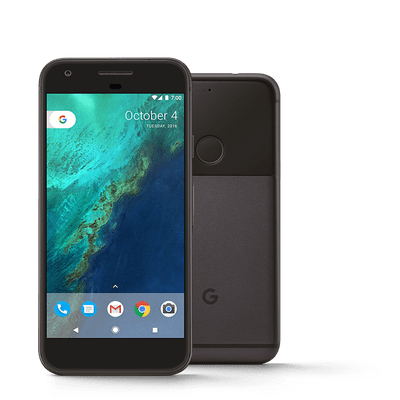
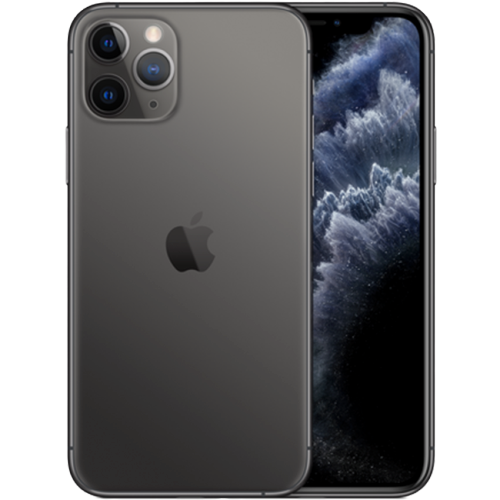
updating new phone

diff --git a/src/data.js b/src/data.js
@@ -1,12 +1,12 @@
 export const storeProducts = [
   {
     id: 1,
-    title: "Google Pixel - Black",
+    title: "Iphone 11 Pro Max",
     img: "img/product-1.png",
-    price: 162,
-    company: "GOOGLE",
+    price: 1449,
+    company: "Apple",
     info:
-      "Box and accessories may be generic. Learn more 18W Power Adapter and USB-C to USB-C Cable. Tell it to do things. To start, just say 'OK Google', or touch and hold the Home button. And the more you use it, the more useful it gets. It's your own personal Google, always ready to help Google Allo is a smart messaging app that helps you say more and do more. Bring your personal Google Assistant into your group chats to find restaurants nearby, share videos to watch, and get answers. Google Duo is a simple video calling app that brings you face-to-face with just a tap. ",
+      "Offer great protections for your phone, easy fit and convenient installation.Fashion design keeps your Phone private and feels goodShock absorbent, shatterproof, and anti-scratch material.Added protection against accidental drops. It protects your Phone back and frame from Fingerprints, Scratches, Dusts, Collisions And Abrasion. Super thin, lightweight, extra grip, soft comfortable hand touching feel, Particularly design , It Perfectly matches with your Phone's shape.",
     inCart: false,
     count: 0,
     total: 0
@@ -98,7 +98,7 @@ export const storeProducts = [
   {
     id: 9,
     title: "Google Pixel - Black",
-    img: "img/product-1.png",
+    img: "img/product-9.png",
     price: 162,
     company: "GOOGLE",
     info:

diff --git a/src/components/Header/Header.css b/src/components/Header/Header.css
@@ -1,11 +1,17 @@
 .header{
-    
     background-image: url(./image.jpg);
     background-size: 100% 300px;
     background-repeat:no-repeat;
     width: 100%;
-    height: 300px;
-    
-   
+    height: 300px;     
 }
 
+@media (min-width:300px) and (max-width:600px) {
+    .header{    
+        background-image: url(./image.jpg);
+        background-size: 100% 120px;
+        background-repeat:no-repeat;
+        width: 100%;
+        height: 120px;
+    }
+}
